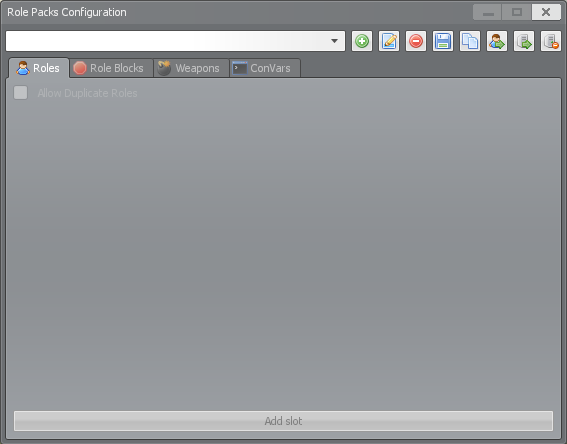
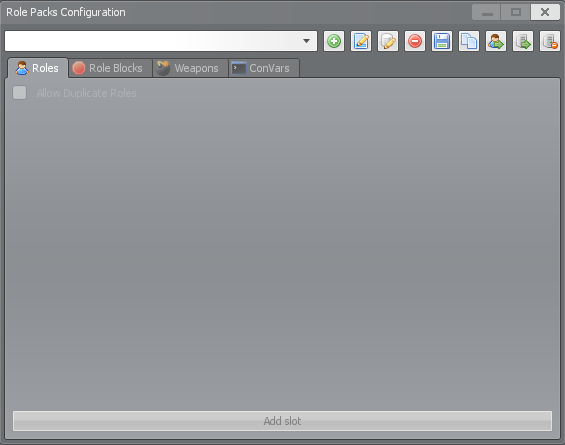
Updated tutorial for rolepack display name and description

Changed region(s): [[0.0, 0.0, 1.0, 1.0], [0.9327, 0.0, 0.9628, 0.0293]]

diff --git a/docs/tutorials/configuring_role_packs.html b/docs/tutorials/configuring_role_packs.html
@@ -44,6 +44,7 @@
             <li><strong>Role packs dropdown</strong> - List of current role packs available on the server. Select an entry from the list to edit it.</li>
             <li><strong>Add button</strong> - Creates a new role pack when clicked, first prompting for the name of the role pack being created.</li>
             <li><strong>Rename button</strong> - Renames the currently selected role pack, prompting for the new name.</li>
+            <li><strong>Edit Details button</strong> - Allows editing extra details such as the display name and description that are shown on the cheat sheet window.</li>
             <li><strong>Delete button</strong> - Deletes the currently selected role pack, prompting for confirmation.</li>
             <li><strong>Save button</strong> - Saves the changes made to the currently selected role pack.</li>
             <li><strong>Save As button</strong> - Saves the currently selected role pack and any unsaved changes as a new role pack with a new given name.</li>

diff --git a/CONVARS.md b/CONVARS.md
@@ -1519,6 +1519,7 @@ At the top of the role packs window are the overall controls that are available 
 1. **Role packs dropdown** - List of current role packs available on the server. Select an entry from the list to edit it.
 1. **Add button** - Creates a new role pack when clicked, first prompting for the name of the role pack being created.
 1. **Rename button** - Renames the currently selected role pack, prompting for the new name.
+1. **Edit Details button** - Allows editing extra details such as the display name and description that are shown on the cheat sheet window.
 1. **Delete button** - Deletes the currently selected role pack, prompting for confirmation.
 1. **Save button** - Saves the changes made to the currently selected role pack.
 1. **Save As button** - Saves the currently selected role pack and any unsaved changes as a new role pack with a new given name.
